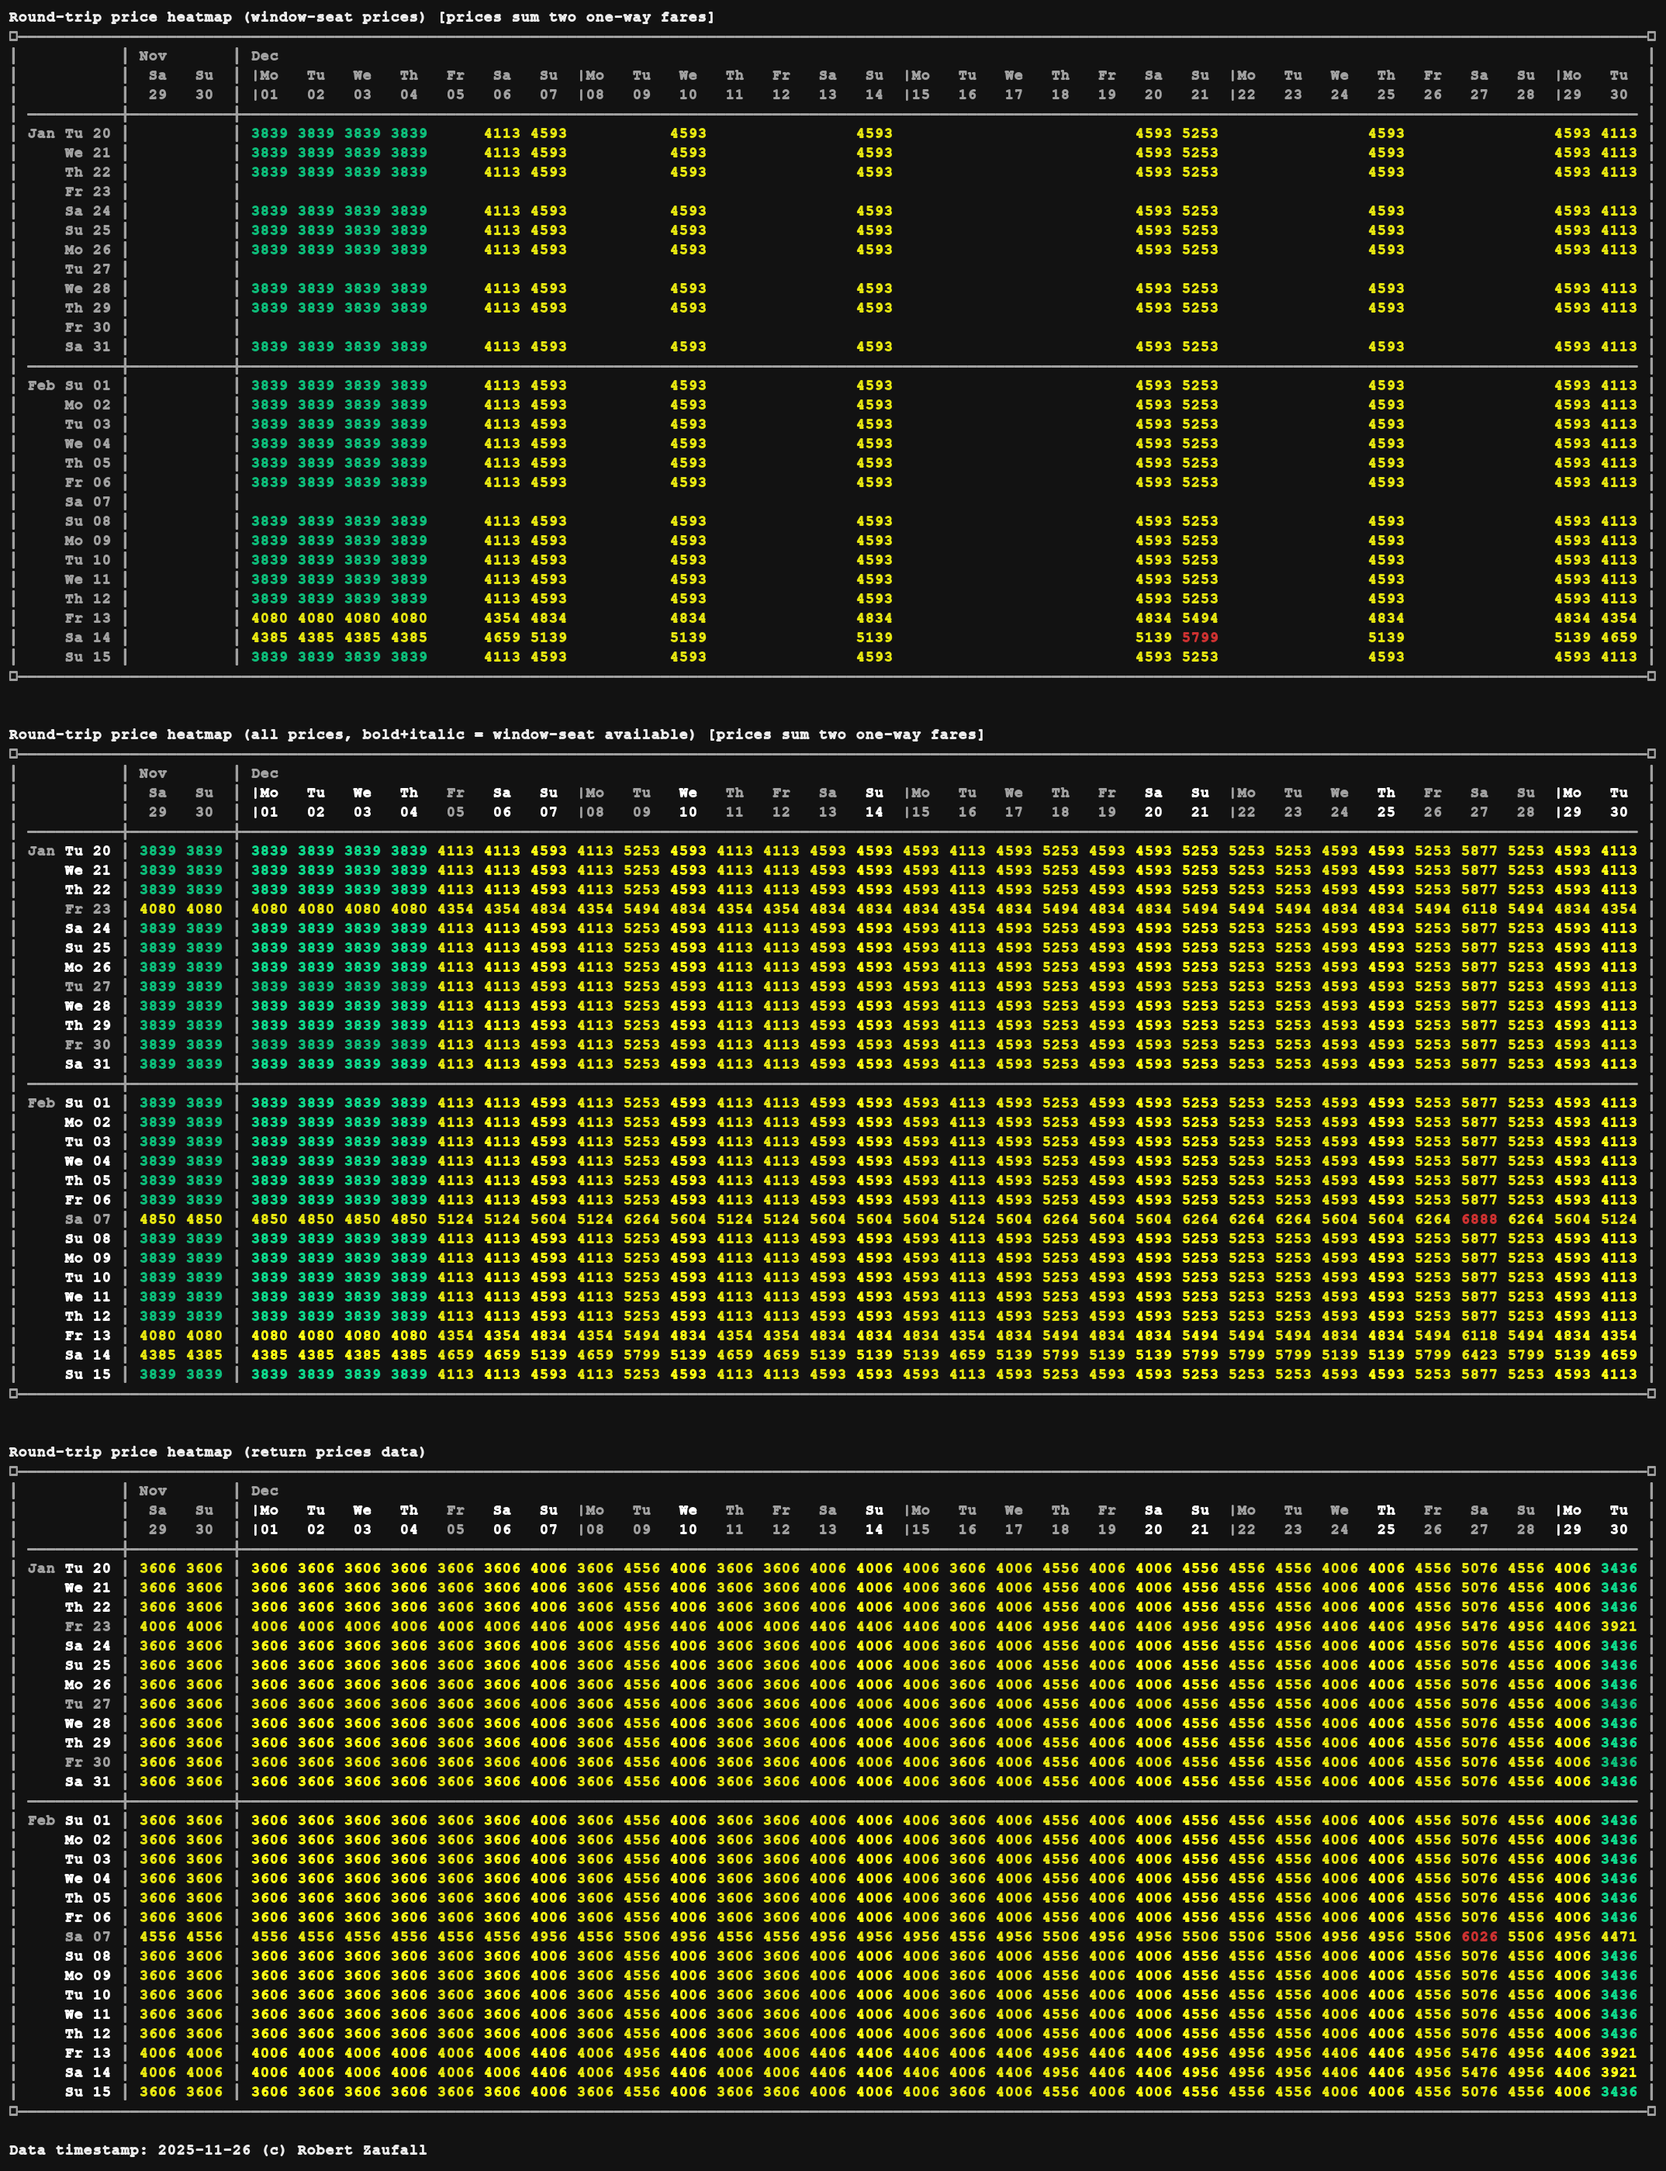
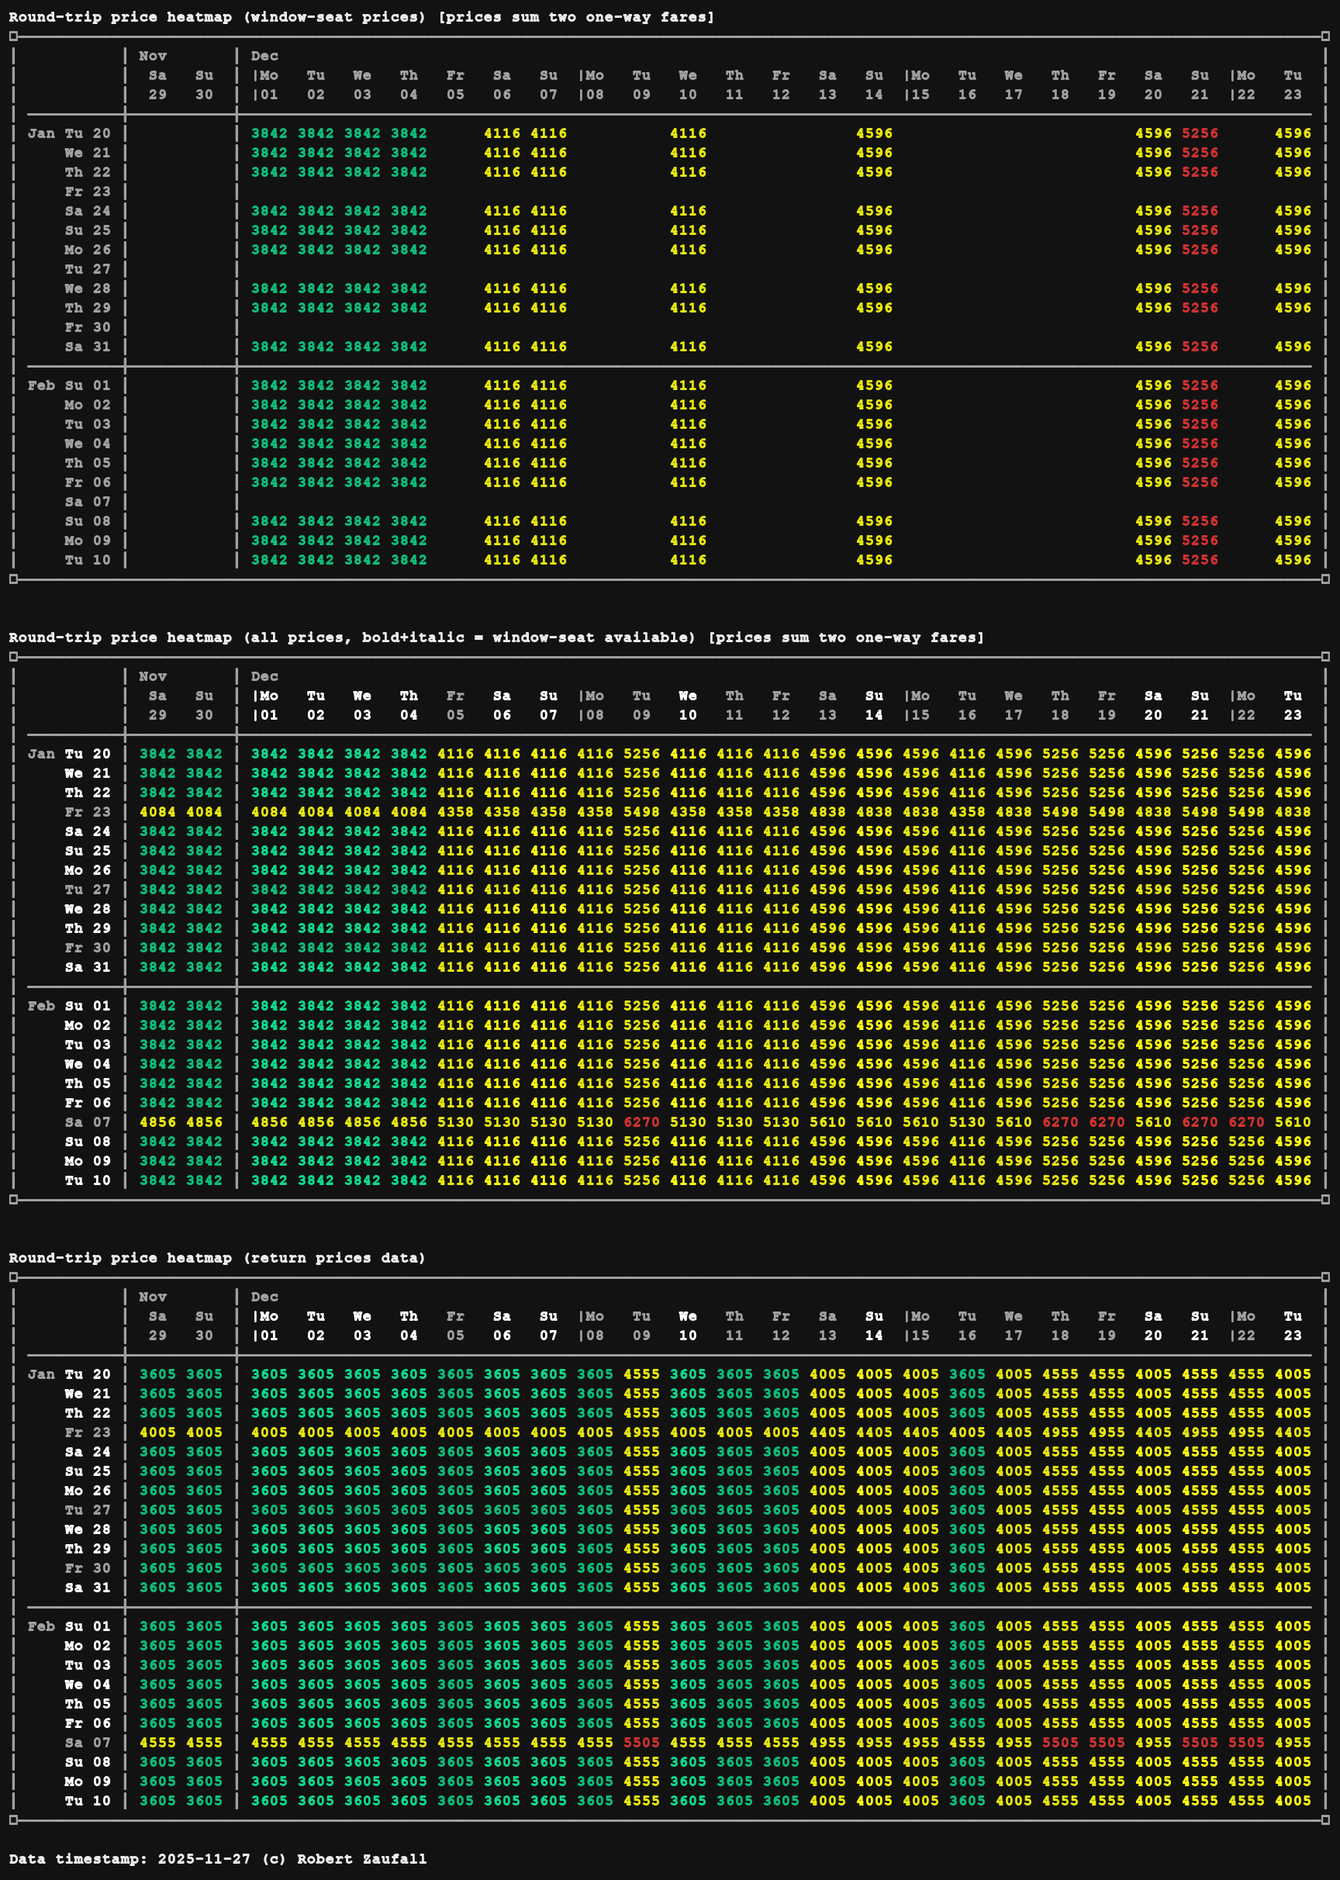
update

Changed region(s): [[0.0, 0.0, 1.0, 1.0]]

diff --git a/get_seatmaps.py b/get_seatmaps.py
@@ -248,6 +248,7 @@ def process_seatmaps(amadeus, travel_dates_tuples, batch_size: int = 6):
                     batch[i]["id"] = str(i)
                 batch_request = {"data": batch}
                 seatmap_responses.extend(fetch_seatmap_batches(amadeus, batch_request))
+                print(f"Processed seatmap requests {idx + 1} to {min(idx + batch_size, total_requests)}")
             _dump_json(responses_path, seatmap_responses)
 
 

diff --git a/config.py b/config.py
@@ -11,13 +11,13 @@ TRAVEL_WINDOWS = [
         "origin": "MUC",
         "destination": "BKK",
         "start_date": "2025-11-29",
-        "end_date": "2025-12-30",
+        "end_date": "2025-12-23",
     },
     {
         "origin": "BKK",
         "destination": "MUC",
         "start_date": "2026-01-20",
-        "end_date": "2026-02-15",
+        "end_date": "2026-02-10",
     },
 ]
 
